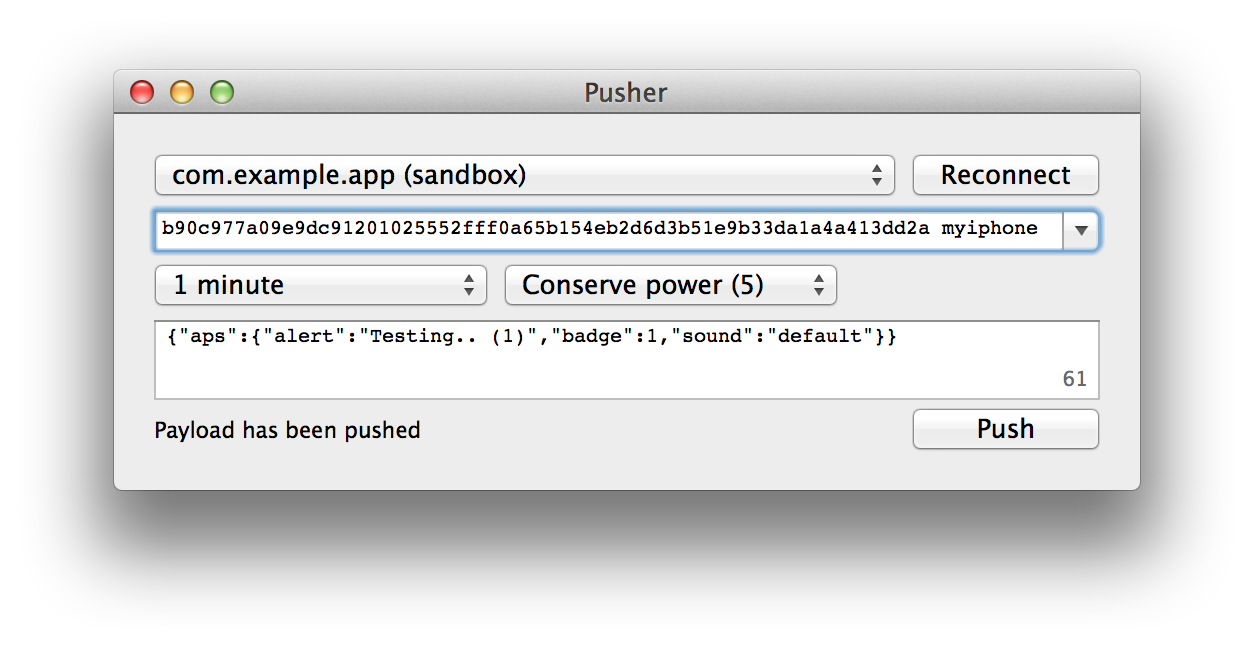
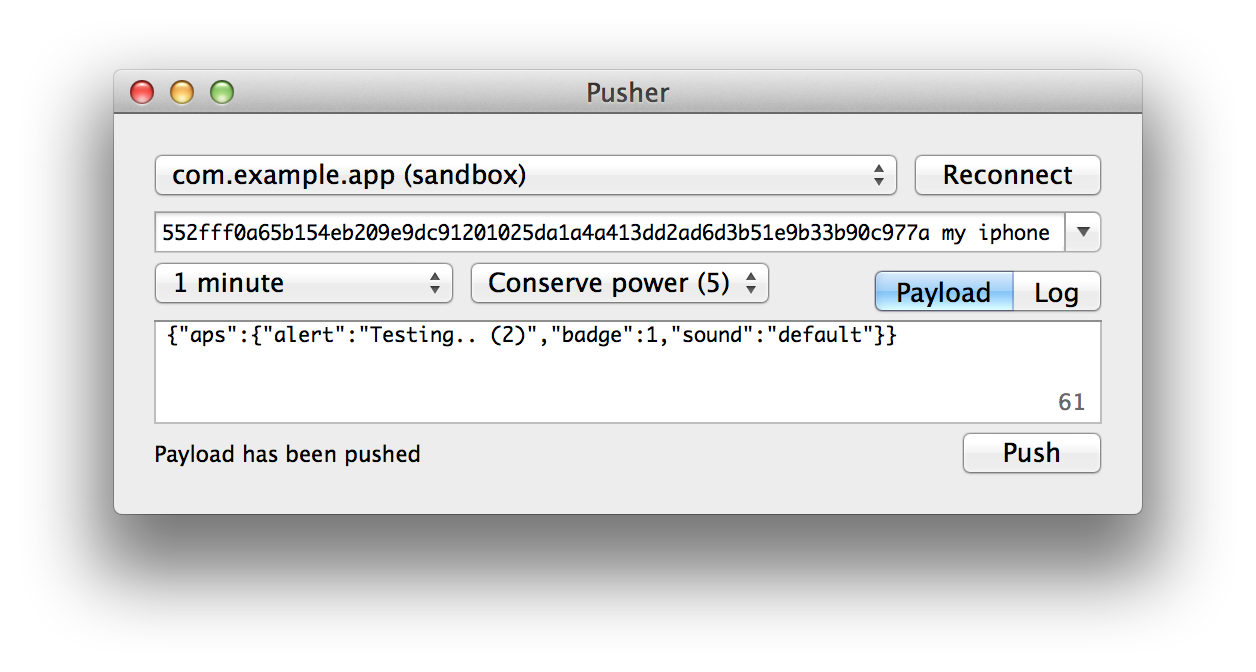
update screenshot

diff --git a/Mac/NWAppDelegate.m b/Mac/NWAppDelegate.m
@@ -163,6 +163,7 @@
         BOOL hasIdentity = (pair[1] != NSNull.null);
         BOOL sandbox = [NWSecTools isSandboxCertificate:certificate];
         NSString *summary = [NWSecTools summaryWithCertificate:certificate];
+        // summary = @"com.example.app";
         [_certificatePopup addItemWithTitle:[NSString stringWithFormat:@"%@%@%@%@", hasIdentity ? @"imported: " : @"", summary, sandbox ? @" (sandbox)" : @"", suffix]];
         [suffix appendString:@" "];
     }
@@ -475,6 +476,7 @@
 - (void)loadSelectedToken
 {
     _tokenCombo.stringValue = [[self tokensWithCertificate:_selectedCertificate create:YES] lastObject] ?: @"";
+    // _tokenCombo.stringValue = @"552fff0a65b154eb209e9dc91201025da1a4a413dd2ad6d3b51e9b33b90c977a my iphone";
 }
 
 - (void)addTokenAndUpdateCombo
